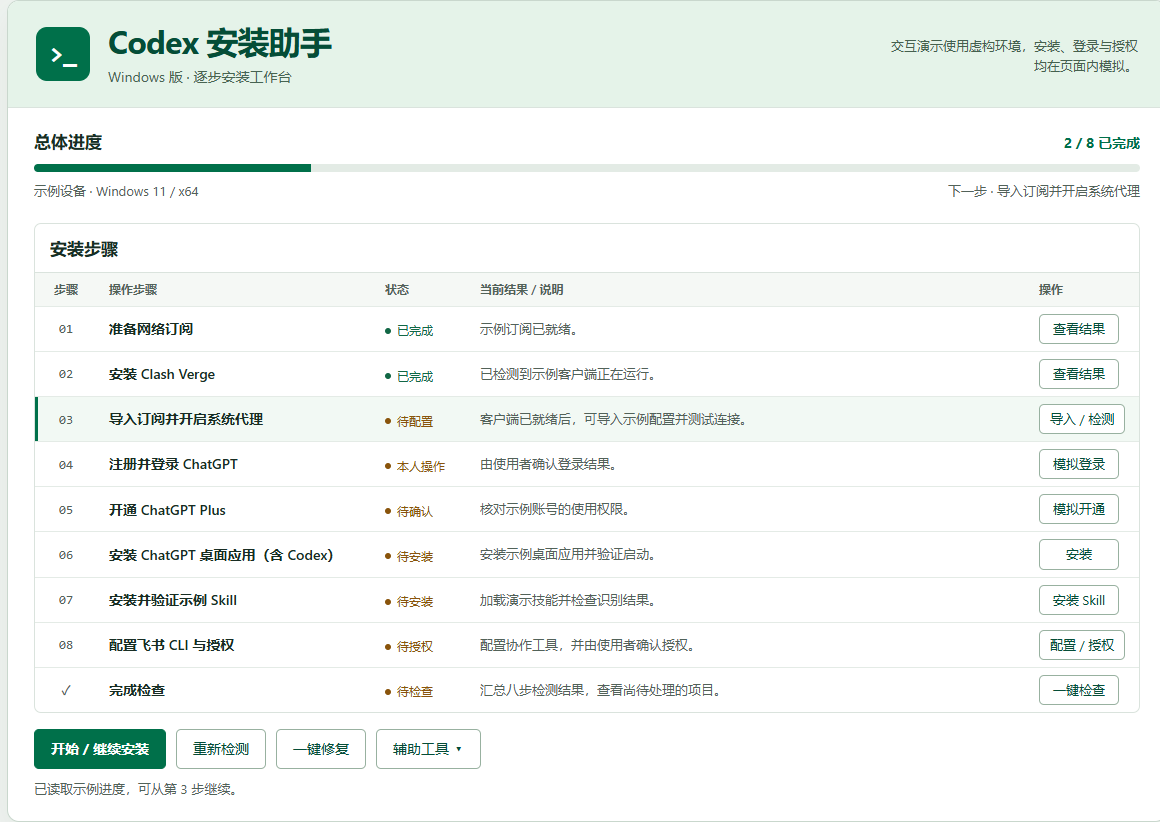
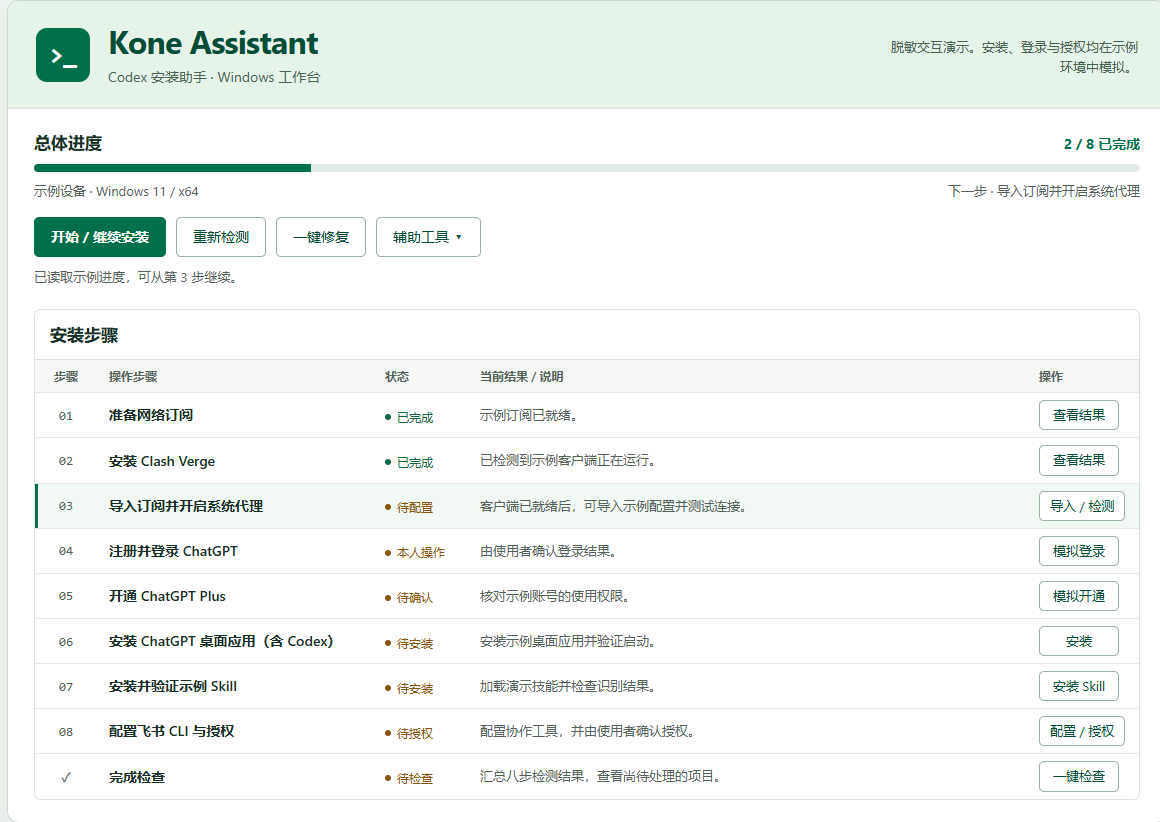
Feature Kone Assistant demo and show completed projects only

diff --git a/portfolio/index.html b/portfolio/index.html
@@ -14,10 +14,10 @@
 <main id="main"><div class="wrap catalog-wrap"><div class="crumb"><a href="../index.html">个人主页</a><span>/</span>作品集</div>
       <section id="projects" aria-labelledby="catalog-title">
         <div class="eyebrow"><i></i> PROJECT PORTFOLIO</div><h1 id="catalog-title">我的作品集</h1>
-        <p class="catalog-intro">从安装引导到吧台收纳，这里收录了我的产品案例与正在整理的设计方案。</p>
+        <p class="catalog-intro">体验 Codex 安装助手，或查看模块化杯架从结构到吧台场景的设计。</p>
         <div class="filters" role="group" aria-label="按方向筛选项目">
-        <button type="button" data-filter="all" aria-pressed="true">全部项目 <span>07</span></button><button type="button" data-filter="0" aria-pressed="false">企业内部流程优化</button><button type="button" data-filter="1" aria-pressed="false">AI 应用开发</button><button type="button" data-filter="2" aria-pressed="false">AI 电商创作</button><button type="button" data-filter="3" aria-pressed="false">产品设计创新</button></div>
-        <p class="sr" id="filter-result" aria-live="polite"></p><div class="cards"><a class="project featured" data-group="0" href="../projects/installer.html"><div class="cardart"><img src="../assets/installer-workbench.png" alt="Codex 安装助手八步工作台实图" style="width:100%;object-fit:contain;object-position:center;background:#eff3f0"></div><div class="cardbody"><div class="meta"><span>企业内部流程优化</span><span class="status ready">已有案例</span></div><h3>Codex 安装助手</h3><p>在八步安装工作台中查看进度、逐项操作，或诊断并修复连接故障。</p></div><span class="detailhint">查看案例</span></a><a class="project featured" data-group="3" href="../projects/cup-rack.html"><div class="cardart"><img src="../assets/modules.webp" width="1400" height="933" loading="lazy" alt="杯子、吸管和杯盖的独立收纳模块在吧台上组合摆放"></div><div class="cardbody"><div class="meta"><span>产品设计创新</span><span class="status ready">已有案例</span></div><h3>模块化杯架</h3><p>围绕杯子、杯盖与吸管的取用，把吧台收纳拆成可组合的独立模块。</p></div><span class="detailhint">查看案例</span></a><a class="project compact" data-group="0" href="../projects/launch.html"><span class="listicon" aria-hidden="true">▤</span><div class="cardbody"><div class="meta"><span>企业内部流程优化</span><span class="status ">案例建设中</span></div><h3>新品上新流程</h3><p>梳理新品从准备到门店执行的关键交接，呈现任务与确认节点。</p></div><span class="detailhint">查看案例</span></a><a class="project compact" data-group="1" href="../projects/workbench.html"><span class="listicon" aria-hidden="true">⊞</span><div class="cardbody"><div class="meta"><span>AI 应用开发</span><span class="status ">案例建设中</span></div><h3>AI 工作台</h3><p>以任务为入口，探索如何组织常用 AI 工具、上下文与产出。</p></div><span class="detailhint">查看案例</span></a><a class="project compact" data-group="1" href="../projects/display.html"><span class="listicon" aria-hidden="true">⌗</span><div class="cardbody"><div class="meta"><span>AI 应用开发</span><span class="status ">展示方案</span></div><h3>门店智能陈列检测助手</h3><p>探索从陈列照片到人工复核的路径，明确识别建议与人工判断的边界。</p></div><span class="detailhint">查看案例</span></a><a class="project compact" data-group="2" href="../projects/product-image.html"><span class="listicon" aria-hidden="true">▧</span><div class="cardbody"><div class="meta"><span>AI 电商创作</span><span class="status ">展示方案</span></div><h3>AI 商品图创作</h3><p>从商品素材与画面要求出发，规划场景图的生成、比较与选图流程。</p></div><span class="detailhint">查看案例</span></a><a class="project compact" data-group="2" href="../projects/product-video.html"><span class="listicon" aria-hidden="true">▷</span><div class="cardbody"><div class="meta"><span>AI 电商创作</span><span class="status ">展示方案</span></div><h3>AI 视频生成</h3><p>把商品卖点整理为分镜，探索从镜头描述到视频审阅的创作流程。</p></div><span class="detailhint">查看案例</span></a></div>
+        <button type="button" data-filter="all" aria-pressed="true">全部项目 <span>02</span></button><button type="button" data-filter="0" aria-pressed="false">企业内部流程优化</button><button type="button" data-filter="3" aria-pressed="false">产品设计创新</button></div>
+        <p class="sr" id="filter-result" aria-live="polite"></p><div class="cards"><a class="project featured" data-group="0" href="../demos/installer.html"><div class="cardart"><img src="../assets/installer-workbench.png" alt="Codex 安装助手八步工作台实图" style="width:100%;object-fit:contain;object-position:center;background:#eff3f0"></div><div class="cardbody"><div class="meta"><span>企业内部流程优化</span><span class="status ready">已有案例</span></div><h3>Kone Assistant</h3><p>在脱敏的 Codex 安装工作台里，逐步检查环境、模拟安装，并尝试修复一次连接故障。</p></div><span class="detailhint">打开交互演示</span></a><a class="project featured" data-group="3" href="../projects/cup-rack.html"><div class="cardart"><img src="../assets/modules.webp" width="1400" height="933" loading="lazy" alt="杯子、吸管和杯盖的独立收纳模块在吧台上组合摆放"></div><div class="cardbody"><div class="meta"><span>产品设计创新</span><span class="status ready">已有案例</span></div><h3>模块化杯架</h3><p>围绕杯子、杯盖与吸管的取用，把吧台收纳拆成可组合的独立模块。</p></div><span class="detailhint">查看案例</span></a></div>
       </section></div></main>
 <footer><div class="wrap foot"><span>麦芒 <b>/</b> 产品手记</span><a href="../portfolio/index.html">浏览作品集</a></div><a class="manage-link" href="../edit/">编辑作品集</a></footer>
 </body></html>

diff --git a/projects/cup-rack.html b/projects/cup-rack.html
@@ -11,6 +11,6 @@
 <a class="skip" href="#main">跳到正文</a>
 <header><div class="wrap nav"><a class="brand" href="../index.html" aria-label="麦芒的产品手记，返回首页"><span class="brandmark" aria-hidden="true"><i></i><i></i><i></i></span>麦芒</a>
 <nav aria-label="主导航"><a href="../index.html">首页</a><a href="../portfolio/index.html">作品集</a><a href="../index.html#practice">关于我</a></nav></div></header>
-<main id="main"><div class="wrap case"><div class="crumb"><a href="../portfolio/index.html#projects">作品集</a><span>/</span>产品设计创新</div><div class="casehead"><div class="eyebrow"><i></i> 产品设计创新</div><h1>模块化杯架</h1><span class="status ready">已有案例</span><p>围绕杯子、杯盖与吸管的取用，把吧台收纳拆成可组合的独立模块。</p></div><div class="casegrid"><aside><nav aria-label="案例目录"><a href="#question">设计问题</a><a href="#path">设计思路</a><a href="#experience">案例体验</a></nav></aside><div class="sections"><section id="question"><h2>设计问题</h2><p class="question">面对不同的台面和耗材组合，杯架如何兼顾取用、补货与摆放？</p></section><section id="path"><h2>设计思路</h2><div class="skillrows"><article><h3>拆分收纳单元</h3><p>按杯子、杯盖和吸管的形态划分收纳位置。</p></article><article><h3>比较组合方式</h3><p>把模块并排或错层摆放，观察高低差、开口与取用方向。</p></article><article><h3>回到台面</h3><p>用场景效果图检查模块与吧台的关系，再进入打样结构的讨论。</p></article></div></section><section id="experience"><div class="sectiontitle"><div class="eyebrow"><i></i> DESIGN STUDY</div><h2>从模块到吧台</h2></div><div class="gallery"><figure><img src="../assets/structure.webp" alt="可拆卸收纳模块的设计效果图"><figcaption>独立模块与收纳开口 · 设计效果图</figcaption></figure><figure><img src="../assets/modules.webp" alt="模块在吧台上的组合效果图"><figcaption>台面组合与取用方向 · 场景效果图</figcaption></figure></div><a class="button primary" href="../demos/cup-rack.html">查看杯架设计图集</a></section></div></div><div class="casenext"><span>下一个项目</span><a href="launch.html">新品上新流程</a></div></div></main>
+<main id="main"><div class="wrap case"><div class="crumb"><a href="../portfolio/index.html#projects">作品集</a><span>/</span>产品设计创新</div><div class="casehead"><div class="eyebrow"><i></i> 产品设计创新</div><h1>模块化杯架</h1><span class="status ready">已有案例</span><p>围绕杯子、杯盖与吸管的取用，把吧台收纳拆成可组合的独立模块。</p></div><div class="casegrid"><aside><nav aria-label="案例目录"><a href="#question">设计问题</a><a href="#path">设计思路</a><a href="#experience">案例体验</a></nav></aside><div class="sections"><section id="question"><h2>设计问题</h2><p class="question">面对不同的台面和耗材组合，杯架如何兼顾取用、补货与摆放？</p></section><section id="path"><h2>设计思路</h2><div class="skillrows"><article><h3>拆分收纳单元</h3><p>按杯子、杯盖和吸管的形态划分收纳位置。</p></article><article><h3>比较组合方式</h3><p>把模块并排或错层摆放，观察高低差、开口与取用方向。</p></article><article><h3>回到台面</h3><p>用场景效果图检查模块与吧台的关系，再进入打样结构的讨论。</p></article></div></section><section id="experience"><div class="sectiontitle"><div class="eyebrow"><i></i> DESIGN STUDY</div><h2>从模块到吧台</h2></div><div class="gallery"><figure><img src="../assets/structure.webp" alt="可拆卸收纳模块的设计效果图"><figcaption>独立模块与收纳开口 · 设计效果图</figcaption></figure><figure><img src="../assets/modules.webp" alt="模块在吧台上的组合效果图"><figcaption>台面组合与取用方向 · 场景效果图</figcaption></figure></div><a class="button primary" href="../demos/cup-rack.html">查看杯架设计图集</a></section></div></div><div class="casenext"><span>下一个项目</span><a href="installer.html">Kone Assistant</a></div></div></main>
 <footer><div class="wrap foot"><span>麦芒 <b>/</b> 产品手记</span><a href="../portfolio/index.html">浏览作品集</a></div><a class="manage-link" href="../edit/">编辑作品集</a></footer>
 </body></html>

diff --git a/index.html b/index.html
@@ -20,8 +20,8 @@
         <img src="assets/counter.webp" alt="黑色模块化杯架在吧台上分层收纳纸杯、吸管和杯盖" fetchpriority="high" width="1375" height="1144">
         <div class="caption"><span><small>产品设计创新 · 场景效果图</small><strong>模块化杯架</strong></span><span class="caplink">查看案例</span></div></a></figure></section>
     <section id="projects" class="wrap index"><div class="featured-heading">
-      <h2>代表作品</h2><a class="textlink" href="portfolio/index.html">查看全部 7 个项目</a></div>
-      <div class="cards"><a class="project featured" data-group="0" href="projects/installer.html"><div class="cardart"><img src="assets/installer-workbench.png" alt="Codex 安装助手八步工作台实图" style="width:100%;object-fit:contain;object-position:center;background:#eff3f0"></div><div class="cardbody"><div class="meta"><span>企业内部流程优化</span><span class="status ready">已有案例</span></div><h3>Codex 安装助手</h3><p>在八步安装工作台中查看进度、逐项操作，或诊断并修复连接故障。</p></div><span class="detailhint">查看案例</span></a><a class="project featured" data-group="3" href="projects/cup-rack.html"><div class="cardart"><img src="assets/modules.webp" width="1400" height="933" loading="lazy" alt="杯子、吸管和杯盖的独立收纳模块在吧台上组合摆放"></div><div class="cardbody"><div class="meta"><span>产品设计创新</span><span class="status ready">已有案例</span></div><h3>模块化杯架</h3><p>围绕杯子、杯盖与吸管的取用，把吧台收纳拆成可组合的独立模块。</p></div><span class="detailhint">查看案例</span></a></div></section>
+      <h2>代表作品</h2><a class="textlink" href="portfolio/index.html">查看全部 2 个项目</a></div>
+      <div class="cards"><a class="project featured" data-group="0" href="demos/installer.html"><div class="cardart"><img src="assets/installer-workbench.png" alt="Codex 安装助手八步工作台实图" style="width:100%;object-fit:contain;object-position:center;background:#eff3f0"></div><div class="cardbody"><div class="meta"><span>企业内部流程优化</span><span class="status ready">已有案例</span></div><h3>Kone Assistant</h3><p>在脱敏的 Codex 安装工作台里，逐步检查环境、模拟安装，并尝试修复一次连接故障。</p></div><span class="detailhint">打开交互演示</span></a><a class="project featured" data-group="3" href="projects/cup-rack.html"><div class="cardart"><img src="assets/modules.webp" width="1400" height="933" loading="lazy" alt="杯子、吸管和杯盖的独立收纳模块在吧台上组合摆放"></div><div class="cardbody"><div class="meta"><span>产品设计创新</span><span class="status ready">已有案例</span></div><h3>模块化杯架</h3><p>围绕杯子、杯盖与吸管的取用，把吧台收纳拆成可组合的独立模块。</p></div><span class="detailhint">查看案例</span></a></div></section>
     <section id="practice" class="practice"><div class="wrap practicegrid"><div><h2>关于我</h2>
       <p class="about-lead">我习惯先看人怎么完成一件事，再决定该改流程、做工具，还是调整一个物件的形状。</p></div>
       <div class="skillrows"><article><h3>流程拆解</h3><p>沿着使用者的操作顺序整理任务，找到交接、等待和容易出错的环节。</p></article>

diff --git a/demos/installer.html b/demos/installer.html
@@ -4,7 +4,7 @@
   <meta charset="utf-8">
   <meta name="viewport" content="width=device-width, initial-scale=1">
   <meta name="color-scheme" content="light">
-  <title>Codex 安装助手 · 逐步安装工作台</title>
+  <title>Kone Assistant · 麦芒的产品手记</title>
   <style>
     :root { --green:#00704a; --deep:#054d37; --mint:#eef7f1; --amber:#89540c; --line:#dae3dd; --ink:#182d23; --muted:#526259; }
     * { box-sizing:border-box; }
@@ -66,17 +66,21 @@
       td:nth-child(4) { grid-column:2; grid-row:2; } td:last-child { grid-column:3; grid-row:2; text-align:right; }
       .row-action { min-width:64px; } .toolbar button { flex:auto; }
     }
+    .demo-nav { max-width:1160px; margin:0 auto 12px; display:flex; gap:20px; justify-content:space-between; }
+    .demo-nav a { color:var(--deep); padding:5px 0; text-underline-offset:4px; }
+    .embedded .demo-nav { display:none; }
     .embedded body { min-height:0; padding:0; background:white; }
     .embedded .window { border:0; border-radius:0; box-shadow:none; max-width:none; }
     @media(prefers-reduced-motion:no-preference) { progress::-webkit-progress-value { transition:width .22s ease; } }
   </style>
 </head>
 <body>
+<nav class="demo-nav" aria-label="作品集导航"><a href="../portfolio/index.html">← 返回作品集</a><a href="../projects/installer.html">查看案例说明</a></nav>
 <div class="window">
   <header>
     <span class="appicon" aria-hidden="true">&gt;_</span>
-    <div><h1>Codex 安装助手</h1><p>Windows 版 · 逐步安装工作台</p></div>
-    <p class="notice">交互演示使用虚构环境，安装、登录与授权均在页面内模拟。</p>
+    <div><h1>Kone Assistant</h1><p>Codex 安装助手 · Windows 工作台</p></div>
+    <p class="notice">脱敏交互演示。安装、登录与授权均在示例环境中模拟。</p>
   </header>
   <main>
     <section aria-labelledby="progress-title">
@@ -84,6 +88,11 @@
       <progress id="progress" value="0" max="8" aria-label="已完成步骤"></progress>
       <div class="envline"><span>示例设备 · Windows 11 / x64</span><span id="next"></span></div>
     </section>
+    <div class="toolbar" aria-label="工作台操作">
+      <button class="primary" id="guide">开始 / 继续安装</button>
+      <button id="detect">重新检测</button><button id="repair">一键修复</button><button id="tools">辅助工具 ▾</button>
+    </div>
+    <p id="feedback" role="status"></p>
     <section class="sheet" aria-labelledby="steps-title">
       <h2 id="steps-title">安装步骤</h2>
       <table aria-label="安装步骤与操作">
@@ -91,11 +100,6 @@
         <tbody id="rows"></tbody>
       </table>
     </section>
-    <div class="toolbar" aria-label="工作台操作">
-      <button class="primary" id="guide">开始 / 继续安装</button>
-      <button id="detect">重新检测</button><button id="repair">一键修复</button><button id="tools">辅助工具 ▾</button>
-    </div>
-    <p id="feedback" role="status"></p>
     <noscript>请启用 JavaScript 以操作安装工作台。</noscript>
   </main>
 </div>

diff --git a/projects/installer.html b/projects/installer.html
@@ -4,15 +4,15 @@
 <meta name="color-scheme" content="light"><meta name="robots" content="noindex,nofollow">
 <meta name="author" content="麦芒">
 <meta name="description" content="麦芒的产品手记，记录门店现场的业务问题、AI 产品原型与设计案例。">
-<title>Codex 安装助手 · 麦芒的产品手记</title>
+<title>Kone Assistant · 麦芒的产品手记</title>
 <link rel="icon" href="../assets/icon.svg" type="image/svg+xml">
 <link rel="stylesheet" href="../assets/site.css"><script src="../assets/site.js" defer></script>
 <script src="../assets/portfolio-content.js" defer></script></head><body class="portfolio">
 <a class="skip" href="#main">跳到正文</a>
 <header><div class="wrap nav"><a class="brand" href="../index.html" aria-label="麦芒的产品手记，返回首页"><span class="brandmark" aria-hidden="true"><i></i><i></i><i></i></span>麦芒</a>
 <nav aria-label="主导航"><a href="../index.html">首页</a><a href="../portfolio/index.html">作品集</a><a href="../index.html#practice">关于我</a></nav></div></header>
-<main id="main"><div class="wrap case"><div class="crumb"><a href="../portfolio/index.html#projects">作品集</a><span>/</span>企业内部流程优化</div><div class="casehead"><div class="eyebrow"><i></i> 企业内部流程优化</div><h1>Codex 安装助手</h1><span class="status ready">已有案例</span><p>Windows 逐步安装工作台。点击下方任一步骤查看操作，也可以从当前进度继续安装。</p></div><section id="experience" aria-label="可操作的安装工作台">
-  <p><a class="button primary" href="../demos/installer.html">独立打开工作台 ↗</a></p>
+<main id="main"><div class="wrap case"><div class="crumb"><a href="../portfolio/index.html#projects">作品集</a><span>/</span>企业内部流程优化</div><div class="casehead"><div class="eyebrow"><i></i> 企业内部流程优化</div><h1>Kone Assistant</h1><span class="status ready">已有案例</span><p>这是 Codex 安装助手的公开体验版。你可以从示例进度继续，也可以在「辅助工具」中选择全新设备，从第一步体验。</p></div><section id="experience" aria-label="可操作的安装工作台">
+  <p><a class="button primary" href="../demos/installer.html">打开完整交互演示</a></p>
   <iframe id="workbench" title="Codex 八步安装工作台，可直接操作" src="../demos/installer.html" style="display:block;width:100%;height:820px;box-sizing:border-box;border:1px solid #c9d7cd;border-radius:9px;background:white"></iframe>
 </section>
 <script>

diff --git a/assets/portfolio-content.js b/assets/portfolio-content.js
@@ -20,7 +20,8 @@
   }
   function card(project, type, featured) {
     const link = element('a', 'project ' + (featured ? 'featured' : 'compact'));
-    link.href = caseUrl(project.id);
+    const opensWorkbench = project.id === 'installer';
+    link.href = opensWorkbench ? url('demos/installer.html') : caseUrl(project.id);
     link.dataset.group = type.group;
     const art = element('div', featured ? 'cardart' : 'listicon');
     const path = project.cover;
@@ -41,7 +42,7 @@
     meta.append(element('span','',groups[Number(type.group)]),
       element('span', 'status' + (type.status === '已有案例' ? ' ready' : ''), type.status));
     body.append(meta, element('h3','',project.title), element('p','',project.summary));
-    link.append(art, body, element('span','detailhint','查看案例'));
+    link.append(art, body, element('span','detailhint',opensWorkbench ? '打开交互演示' : '查看案例'));
     return link;
   }
   function render(data, types) {
